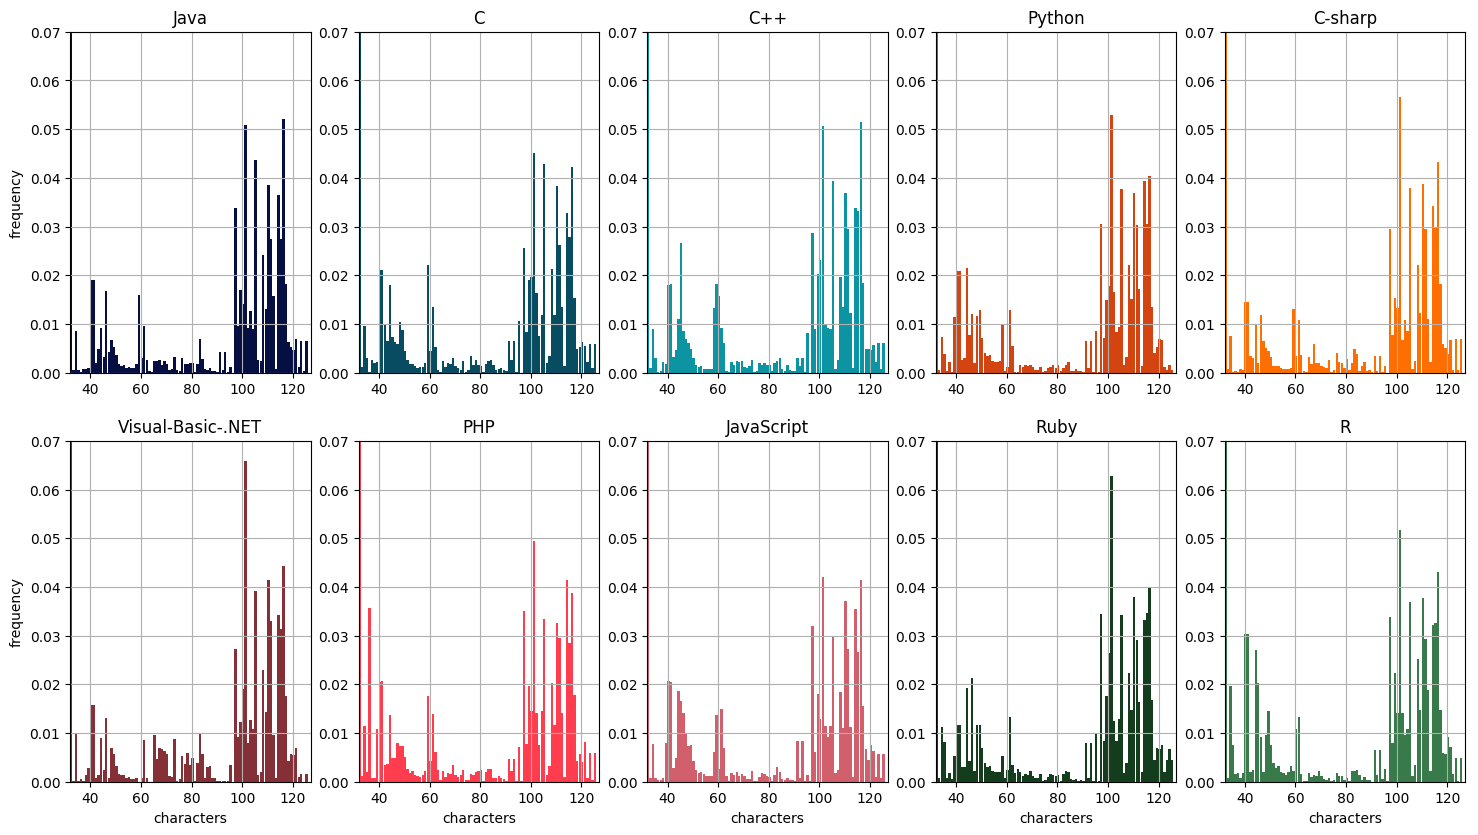
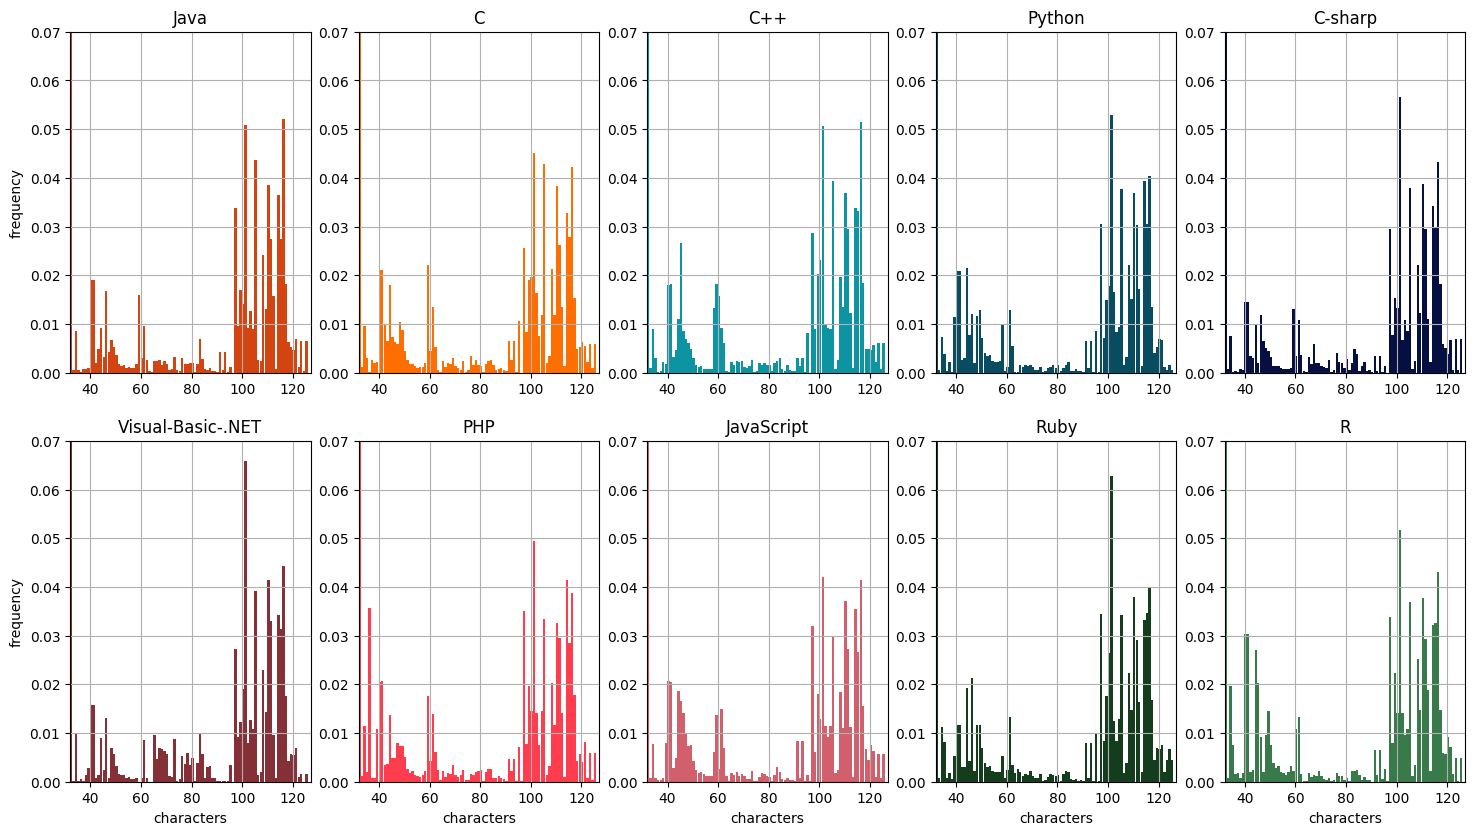
Change colors of freq graphs on top row

diff --git a/code/data_graphs.py b/code/data_graphs.py
@@ -11,7 +11,7 @@ ROWS = 5
 COLS = NUM_LANGS // ROWS
 languages = ['Java', 'C', 'C++', 'Python', 'C-sharp', 'Visual-Basic-.NET',
              'PHP', 'JavaScript', 'Ruby', 'R']
-colors = ['#050f42', '#084c61', '#0d94a3', '#d34410', '#ff6e00',
+colors = ['#d34410', '#ff6e00', '#0d94a3', '#084c61', '#050f42',
           '#853037', '#ff3d4e', '#d25f6c', '#143d1d', '#387a4a']
 
 text = [open('data/languages/' + language).read() for language in languages]
@@ -36,7 +36,11 @@ for lang_ind in range(NUM_LANGS):
     plt.bar(x, rates, color=colors[lang_ind], align='center', width=0.3)
     if lang_ind + 1 > ROWS:
         plt.xlabel('characters')
+    #else:
+        #plt.xticks([])
     if lang_ind % ROWS == 0:
         plt.ylabel('frequency')
+    #else:
+        #plt.yticks([])
 
 plt.savefig('../images/frequencies.png', bbox_inches='tight')
